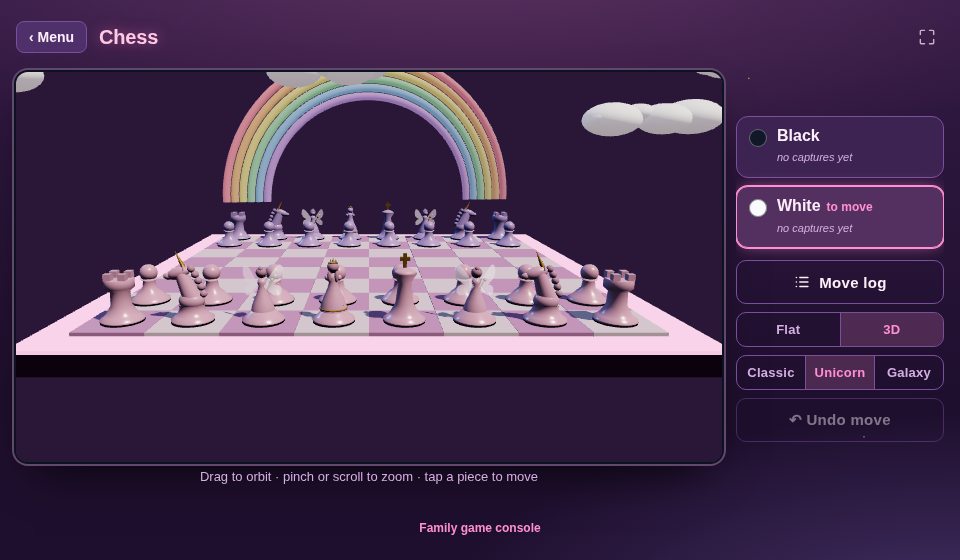
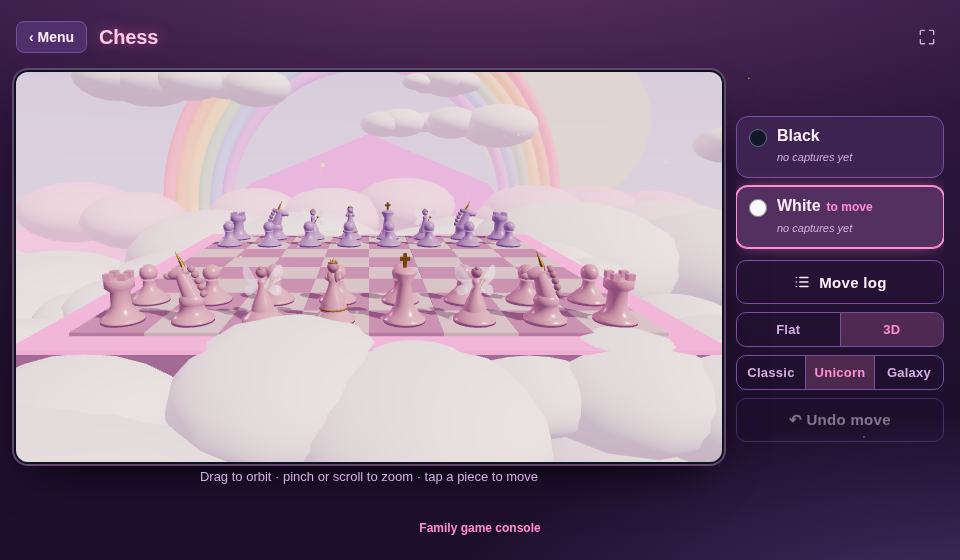
Chess 3D: the Cloud Kingdom — the unicorn board floats above the clouds
The dream sky grows into a whole world. The board is now a rose-quartz
terrace floating high over an endless sunset cloud sea:

- A gradient sky dome (peach horizon, rose, violet zenith) with a soft
  low sun glowing through the haze; fog tinted to the horizon so
  distance melts into sunlit sky, never darkness.
- A broken cloud deck rolls away below the board to the horizon over a
  soft pink floor, and a cushion of cloud hugs the terrace's underside
  — you're ON the clouds, not hovering near one.
- The grand rainbow rises far behind with its feet buried in distant
  cloud banks (plus a faint echo rainbow off to the side).
- Eye-level clouds drift past the terrace; gold-and-pink sparkle motes
  swirl slowly around the board and breathe.
- Golden-hour lighting (warm sun, pink sky fill, blush rim), and the
  terrace frame lightened from midnight plum to rose quartz so it
  reads warm against the bright clouds.

All seeded (same kingdom every visit), all procedural and offline,
all motion resting under prefers-reduced-motion.

Claude-Session: https://claude.ai/code/session_01Pet5917XAbMAsbQM47tWg6

diff --git a/src/games/chess/components/three/ChessScene.ts b/src/games/chess/components/three/ChessScene.ts
@@ -45,6 +45,7 @@ export class ChessScene {
   private checkMat: THREE.MeshBasicMaterial | null = null;
   private tweens: Tween[] = [];
   private clouds: THREE.Group[] = [];
+  private sparkles: THREE.Points[] = [];
   private lastNow = 0;
   private raf = 0;
   private down: { x: number; y: number } | null = null;
@@ -69,11 +70,15 @@ export class ChessScene {
     container.appendChild(this.renderer.domElement);
 
     this.scene.background = new THREE.Color(this.palette.background);
-    // Deep space and dream skies keep their fog further out so the backdrop
-    // (starfield / rainbows) actually reads.
-    this.scene.fog = this.palette.stars || this.palette.dream
-      ? new THREE.Fog(this.palette.background, 20, 40)
-      : new THREE.Fog(this.palette.background, 15, 28);
+    // Deep space keeps its fog further out so the starfield reads; the dream
+    // world's fog is tinted to the sky's horizon so distance melts into
+    // sunlit haze (never into darkness), and pushed far enough to see the
+    // cloud sea roll away.
+    this.scene.fog = this.palette.dream
+      ? new THREE.Fog('#f2c8dc', 20, 46)
+      : this.palette.stars
+        ? new THREE.Fog(this.palette.background, 20, 40)
+        : new THREE.Fog(this.palette.background, 15, 28);
     if (this.palette.accent) {
       this.accentMat = new THREE.MeshStandardMaterial({
         color: this.palette.accent,
@@ -114,7 +119,7 @@ export class ChessScene {
     this.buildLights();
     this.buildBoard();
     if (this.palette.stars) this.buildStars();
-    if (this.palette.dream) this.buildDreamSky();
+    if (this.palette.dream) this.buildDreamWorld();
     this.scene.add(this.markGroup);
 
     // Tap vs orbit: only fire a tap when the pointer barely moved.
@@ -128,6 +133,22 @@ export class ChessScene {
   }
 
   private buildLights() {
+    if (this.palette.dream) {
+      // Golden-hour light above the clouds: warm low sun, pink sky fill.
+      this.scene.add(new THREE.HemisphereLight('#ffe9f3', '#e3b3e8', 0.95));
+      const sun = new THREE.DirectionalLight('#ffedd2', 2.1);
+      sun.position.set(7, 7, 5);
+      sun.castShadow = true;
+      sun.shadow.mapSize.set(1024, 1024);
+      sun.shadow.camera.left = -6; sun.shadow.camera.right = 6;
+      sun.shadow.camera.top = 6; sun.shadow.camera.bottom = -6;
+      sun.shadow.bias = -0.0004;
+      this.scene.add(sun);
+      const blush = new THREE.DirectionalLight('#ffb3dd', 0.55);
+      blush.position.set(-7, 3, -6);
+      this.scene.add(blush);
+      return;
+    }
     this.scene.add(new THREE.HemisphereLight('#cfe0ff', '#1a1408', 0.55));
     const key = new THREE.DirectionalLight('#fff2dd', 2.2);
     key.position.set(5, 9, 4);
@@ -196,64 +217,159 @@ export class ChessScene {
     this.scene.add(stars);
   }
 
-  /** A pastel rainbow arching out of the ground — six half-torus bands. */
-  private buildRainbow(x: number, z: number, ry: number, scale: number) {
+  /** A pastel rainbow arching out of the cloud sea — six half-torus bands. */
+  private buildRainbow(x: number, y: number, z: number, ry: number, scale: number, opacity: number) {
     const bands = ['#ff8f9f', '#ffb87a', '#ffe97a', '#93e6a4', '#8fc9ff', '#c9a0f5'];
     const g = new THREE.Group();
     bands.forEach((c, i) => {
       const band = new THREE.Mesh(
-        new THREE.TorusGeometry(6.4 - i * 0.36, 0.17, 10, 48, Math.PI),
+        new THREE.TorusGeometry(6.4 - i * 0.36, 0.19, 10, 56, Math.PI),
         new THREE.MeshStandardMaterial({
           color: c,
           emissive: c,
-          emissiveIntensity: 0.5,
+          emissiveIntensity: 0.6,
           roughness: 0.6,
           transparent: true,
-          opacity: 0.92,
+          opacity,
         }),
       );
       g.add(band);
     });
-    g.position.set(x, 0, z);
+    g.position.set(x, y, z);
     g.rotation.y = ry;
     g.scale.setScalar(scale);
     this.scene.add(g);
+    return g;
   }
 
   /**
-   * The unicorn theme's dream sky: rainbows arching behind either side of the
-   * board and a flock of puffy clouds that drift slowly around it (seeded, so
-   * every visit looks the same; still under reduced motion).
+   * THE CLOUD KINGDOM — the unicorn board is a marble terrace floating high
+   * above an endless sunset cloud sea. A gradient sky dome (peach horizon to
+   * violet zenith), a broken cloud deck rolling away below, a cushion of
+   * cloud hugging the board's underside, a grand rainbow with its feet
+   * buried in distant cloud banks, drifting eye-level clouds, and a slow
+   * swirl of gold-and-pink sparkle motes in the air. Everything is seeded,
+   * so the kingdom looks the same on every visit; motion (drift, swirl,
+   * twinkle) rests under prefers-reduced-motion.
    */
-  private buildDreamSky() {
-    // One rainbow behind each camp, so both players get one in view.
-    this.buildRainbow(0, -14, 0.12, 1);
-    this.buildRainbow(4, 14.5, Math.PI - 0.2, 0.8);
-
+  private buildDreamWorld() {
     let seed = 20260729;
     const rand = () => ((seed = (seed * 1103515245 + 12345) & 0x7fffffff) / 0x7fffffff);
+
+    // ── The sky: a gradient dome from warm horizon to violet zenith ──
+    const skyCanvas = document.createElement('canvas');
+    skyCanvas.width = 4;
+    skyCanvas.height = 256;
+    const ctx = skyCanvas.getContext('2d');
+    if (ctx) {
+      const grad = ctx.createLinearGradient(0, 0, 0, 256); // canvas top = zenith
+      grad.addColorStop(0, '#6d4bb8');
+      grad.addColorStop(0.34, '#b98ae0');
+      grad.addColorStop(0.66, '#f3b9dd');
+      grad.addColorStop(1, '#ffd9c4');
+      ctx.fillStyle = grad;
+      ctx.fillRect(0, 0, 4, 256);
+      const dome = new THREE.Mesh(
+        new THREE.SphereGeometry(52, 24, 16),
+        new THREE.MeshBasicMaterial({ map: new THREE.CanvasTexture(skyCanvas), side: THREE.BackSide, fog: false }),
+      );
+      dome.position.y = -6; // horizon sits below the board's eye line
+      this.scene.add(dome);
+    }
+    // A soft low sun glowing through the haze.
+    const sunGlow = new THREE.Mesh(
+      new THREE.CircleGeometry(7, 24),
+      new THREE.MeshBasicMaterial({ color: '#ffe3bd', transparent: true, opacity: 0.55, fog: false }),
+    );
+    sunGlow.position.set(17, 4, -38);
+    sunGlow.lookAt(0, 2, 0);
+    this.scene.add(sunGlow);
+
+    // ── Cloud materials (shared) ──
     const cloudMat = new THREE.MeshStandardMaterial({
-      color: '#ffffff',
-      emissive: '#fff2fa',
-      emissiveIntensity: 0.32,
+      color: '#fff8fc',
+      emissive: '#ffeaf6',
+      emissiveIntensity: 0.28,
       roughness: 1,
     });
-    for (let i = 0; i < 9; i++) {
-      const cloud = new THREE.Group();
-      const puffs = 3 + Math.floor(rand() * 3);
+    const puffCluster = (scale: number, stretch = 1) => {
+      const g = new THREE.Group();
+      const puffs = 4 + Math.floor(rand() * 3);
       for (let p = 0; p < puffs; p++) {
-        const r = 0.5 + rand() * 0.75;
-        const puff = new THREE.Mesh(new THREE.SphereGeometry(r, 14, 12), cloudMat);
-        puff.position.set((p - (puffs - 1) / 2) * r * 0.95, (rand() - 0.5) * 0.35, (rand() - 0.5) * 0.7);
-        puff.scale.y = 0.58;
-        cloud.add(puff);
+        const r = (0.55 + rand() * 0.8) * scale;
+        const puff = new THREE.Mesh(new THREE.SphereGeometry(r, 12, 10), cloudMat);
+        puff.position.set(
+          (p - (puffs - 1) / 2) * r * 0.95 * stretch,
+          (rand() - 0.5) * 0.3 * scale,
+          (rand() - 0.5) * 0.9 * scale,
+        );
+        puff.scale.y = 0.55;
+        g.add(puff);
       }
+      return g;
+    };
+
+    // ── The cloud sea: a broken deck rolling away below the board ──
+    for (let i = 0; i < 26; i++) {
       const ang = rand() * Math.PI * 2;
-      const dist = 10.5 + rand() * 7;
-      cloud.position.set(Math.cos(ang) * dist, 2.4 + rand() * 4.6, Math.sin(ang) * dist);
-      cloud.userData.speed = (0.1 + rand() * 0.2) * (rand() < 0.5 ? 1 : -1);
+      const dist = 7 + rand() * 24;
+      const bank = puffCluster(1.6 + rand() * 2.6, 1.4);
+      bank.position.set(Math.cos(ang) * dist, -3.1 + rand() * 0.9, Math.sin(ang) * dist);
+      this.scene.add(bank);
+    }
+    // A soft pink floor far below closes any gaps between the banks.
+    const seaFloor = new THREE.Mesh(
+      new THREE.CircleGeometry(55, 40),
+      new THREE.MeshBasicMaterial({ color: '#f4c4de' }),
+    );
+    seaFloor.rotation.x = -Math.PI / 2;
+    seaFloor.position.y = -5.2;
+    this.scene.add(seaFloor);
+
+    // ── The board rests ON cloud: a cushion hugging its underside ──
+    for (let i = 0; i < 12; i++) {
+      const ang = (i / 12) * Math.PI * 2 + rand() * 0.3;
+      const cushion = puffCluster(0.9 + rand() * 0.5);
+      cushion.position.set(Math.cos(ang) * (4.1 + rand() * 0.7), -0.75 - rand() * 0.4, Math.sin(ang) * (4.1 + rand() * 0.7));
+      this.scene.add(cushion);
+    }
+
+    // ── The grand rainbow, feet buried in far cloud banks; a faint echo ──
+    this.buildRainbow(0, -1.5, -23, 0.1, 1.9, 0.85);
+    for (const fx of [-12.1, 12.1]) {
+      const foot = puffCluster(2.6, 1.3);
+      foot.position.set(fx, -1.6, -22.4);
+      this.scene.add(foot);
+    }
+    this.buildRainbow(19, -1, 13, Math.PI * 0.72, 1.1, 0.45);
+
+    // ── Eye-level clouds that drift past the terrace ──
+    for (let i = 0; i < 8; i++) {
+      const cloud = puffCluster(0.8 + rand() * 1.1);
+      const ang = rand() * Math.PI * 2;
+      const dist = 9.5 + rand() * 8;
+      cloud.position.set(Math.cos(ang) * dist, 1.4 + rand() * 4.6, Math.sin(ang) * dist);
+      cloud.userData.speed = (0.12 + rand() * 0.22) * (rand() < 0.5 ? 1 : -1);
       this.clouds.push(cloud);
       this.scene.add(cloud);
+    }
+
+    // ── Sparkle motes: gold and pink dust swirling slowly around the board ──
+    for (const [color, count, size] of [['#ffe9a8', 70, 0.075], ['#ffd0ef', 90, 0.06]] as const) {
+      const pts: number[] = [];
+      for (let i = 0; i < count; i++) {
+        const ang = rand() * Math.PI * 2;
+        const dist = 2.5 + rand() * 7;
+        pts.push(Math.cos(ang) * dist, 0.3 + rand() * 4.4, Math.sin(ang) * dist);
+      }
+      const geo = new THREE.BufferGeometry();
+      geo.setAttribute('position', new THREE.Float32BufferAttribute(pts, 3));
+      const motes = new THREE.Points(geo, new THREE.PointsMaterial({
+        color, size, sizeAttenuation: true, transparent: true, opacity: 0.85, depthWrite: false,
+      }));
+      motes.userData.spin = 0.02 + rand() * 0.02;
+      this.sparkles.push(motes);
+      this.scene.add(motes);
     }
   }
 
@@ -429,12 +545,17 @@ export class ChessScene {
     const dt = this.lastNow ? Math.min(0.05, (now - this.lastNow) / 1000) : 0;
     this.lastNow = now;
 
-    // Dream-sky clouds drift gently around the board.
-    if (this.clouds.length > 0 && !this.opts.reducedMotion) {
+    // Dream-world motion: clouds drift past; sparkle dust swirls and breathes.
+    if (!this.opts.reducedMotion) {
       for (const cloud of this.clouds) {
         cloud.position.x += (cloud.userData.speed as number) * dt;
         if (cloud.position.x > 19) cloud.position.x = -19;
         if (cloud.position.x < -19) cloud.position.x = 19;
+      }
+      for (let i = 0; i < this.sparkles.length; i++) {
+        const motes = this.sparkles[i];
+        motes.rotation.y += (motes.userData.spin as number) * dt;
+        (motes.material as THREE.PointsMaterial).opacity = 0.6 + 0.3 * Math.sin(now / 900 + i * 2.1);
       }
     }
 

diff --git a/src/games/chess/components/chessTheme.tsx b/src/games/chess/components/chessTheme.tsx
@@ -115,11 +115,12 @@ export const SCENE_PALETTES: Record<ChessThemeId, ScenePalette> = {
     pieceRoughness: 0.34,
   },
   unicorn: {
-    background: '#2a1636',
+    background: '#e9b7dd', // fallback behind the dream-sky dome
     tileLight: '#fbe3f2',
     tileDark: '#d9a0d0',
-    frame: '#43254e',
+    frame: '#d9a6de', // rose-quartz terrace — reads warm against the clouds
     edge: '#ff8fd0',
+    edgeEmissive: 0.9,
     whitePiece: '#f6bcdb', // Rose pearl
     blackPiece: '#cdb1f2', // Lavender pearl
     accent: '#e8b64c',
